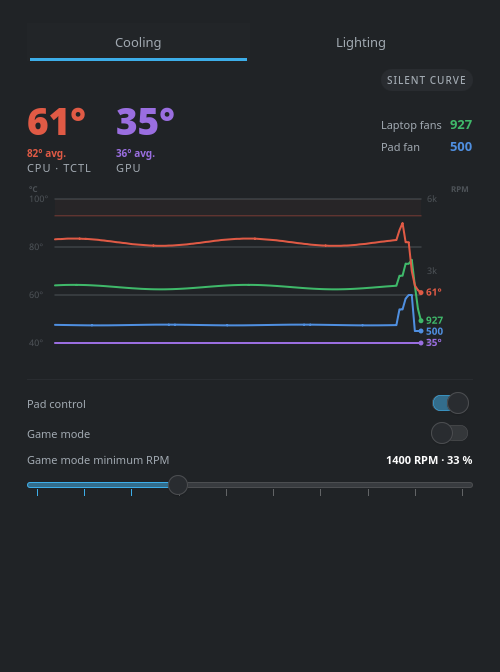
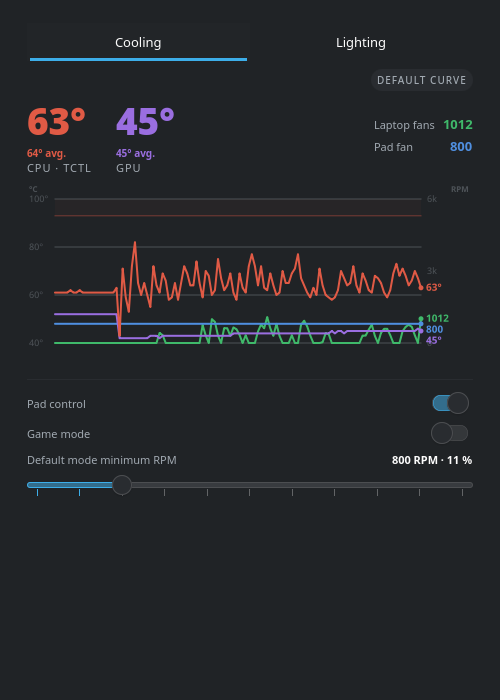
docs: refresh screenshots to the 0.9 UI, drop the silent-mode wording
The committed captures dated from 0.6.0, before the default-mode floor
slider (0.8.0), the off position on both sliders and the silent ->
default rename (0.9.0): they showed a UI that no longer exists. All four
were regenerated from the live widget through the usual pipeline (.shot /
.cshot variants, full 4-minute chart fill, theme switch on the live
window, 420x56 strip crop for the panel view). The machine theme was
restored and the variant installs removed afterwards.

The intro line still said "silent-first", vocabulary killed by the
rename: now "quiet-by-default".

Generated by Mistral Vibe.

diff --git a/README.md b/README.md
@@ -9,7 +9,7 @@
 
 # cooling-ctl
 
-A silent-first control stack for the **Razer Laptop Cooling Pad** on Linux: a
+A quiet-by-default control stack for the **Razer Laptop Cooling Pad** on Linux: a
 user daemon owning the pad's HID interface exclusively (signal-based mode
 switching, no restarts ever) and a KDE Plasma 6 plasmoid with live
 temperatures, fan speeds, an RPM chart, a stepped fan-floor slider and
